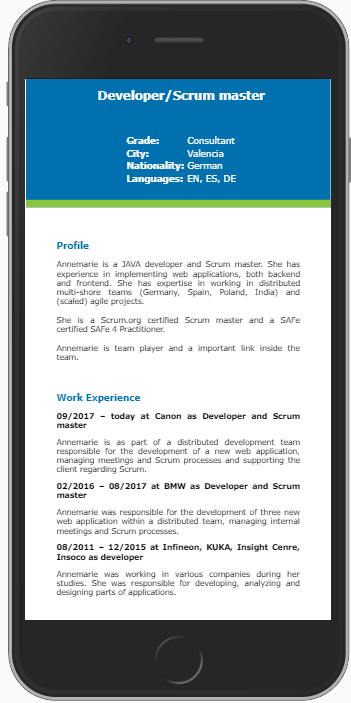
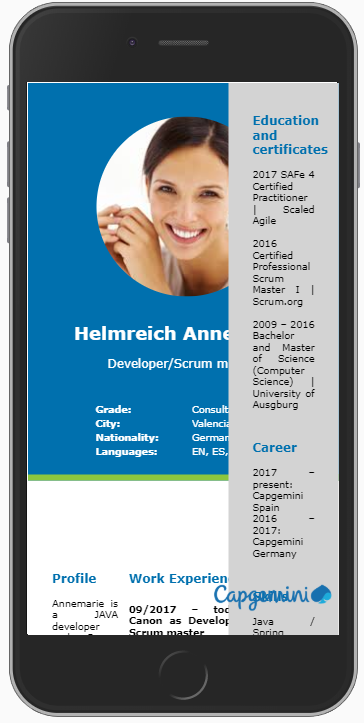
Updated

diff --git a/src/app/app.component.scss b/src/app/app.component.scss
@@ -4,8 +4,8 @@ $Green: #8cc63f;
 
 header {
   display: inline-flex;
-  padding-left: 2%;
-  padding-top: 1%;
+  padding-left: 2rem;
+  padding-top: 0.5rem;
 }
 
 .circleImage {
@@ -13,7 +13,8 @@ header {
   height: 13rem;
   overflow: hidden;
   border-radius: 50%;
-  margin-top: 0.5rem;
+  margin-left: 0.5rem;
+  margin-top: 1.5rem;
 }
 
 .profilePicture {
@@ -22,7 +23,7 @@ header {
 }
 
 .basicInfo {
-  padding-left: 7%;
+  padding-left: 3rem;
 }
 
 h1 {
@@ -42,7 +43,7 @@ h2 {
 
 table {
   font-family: $Verdana;
-  font-size: 1rem;
+  font-size: 0.8rem;
   color: white;
   padding-top: 10%;
   width: 15rem;
@@ -52,11 +53,15 @@ table {
   font-weight: bold;
 }
 
+.workExp .bold {
+  padding-top: 0.5rem;
+}
+
 .bodyText {
-  margin-left: 2%;
-  margin-top: 8%;
+  margin-left: 2rem;
+  margin-top: 5rem;
   display: inline-flex;
-  width: 68%;
+  width: 70%;
 }
 
 .profile {
@@ -66,14 +71,15 @@ table {
 
 h3 {
   font-family: $Verdana;
-  font-size: 0.75rem;
+  font-size: 1rem;
   font-weight: bold;
   color: $Blue;
+  padding-top: 1.5rem;
 }
 
 p {
   font-family: $Verdana;
-  font-size: 0.65rem;
+  font-size: 0.8rem;
   text-align: justify;
 }
 
@@ -84,27 +90,26 @@ p {
   right: 0;
   top: 0;
   height: 100%;
-  padding-left: 1%;
-  padding-top: 1%;
+  padding: 0 2rem 0 2rem;
 }
 
 .logo {
-  width: 10vw;
+  width: 10rem;
   position: absolute;
-  top: 88%;
+  top: 90%;
   right: 5%;
 }
 
 @media only screen and (max-width: 800px) {
   header {
     background-color: $Blue;
-    border-bottom: 10px solid $Green;
+    border-bottom: 0.5rem solid $Green;
     display: block;
     text-align: center;
-    padding-top: 5%;
-    padding-bottom: 5%;
+    padding: 5% 0 5% 0;
     margin: 0%;
   }
+
   .circleImage {
     display: inline-block;
     width: 15rem;
@@ -119,6 +124,7 @@ p {
 
   h1 {
     margin-top: 10%;
+    font-size: 1.5rem;
   }
 
   table {
@@ -131,18 +137,15 @@ p {
 
   .bodyText {
     text-align: center;
-    margin-left: 10%;
+    margin: 0 10% 10% 10%; 
     display: inline-block;
     width: 80%;
-    margin-bottom: 10%;
   }
 
   .sidebar {
     width: 80%;
     position: relative;
-    padding-left: 10%;
-    padding-right: 10%;
-    padding-top: 5%;
+    padding: 5% 10% 0 10%;
     text-align: center;
   }
 
@@ -151,8 +154,8 @@ p {
   }
 
   .logo {
-    width: 30vw;
-    margin-top: 5%;
+    width: 40%;
+    margin: 10%;
     position: relative;
     top: 0%;
     right: 0%;
